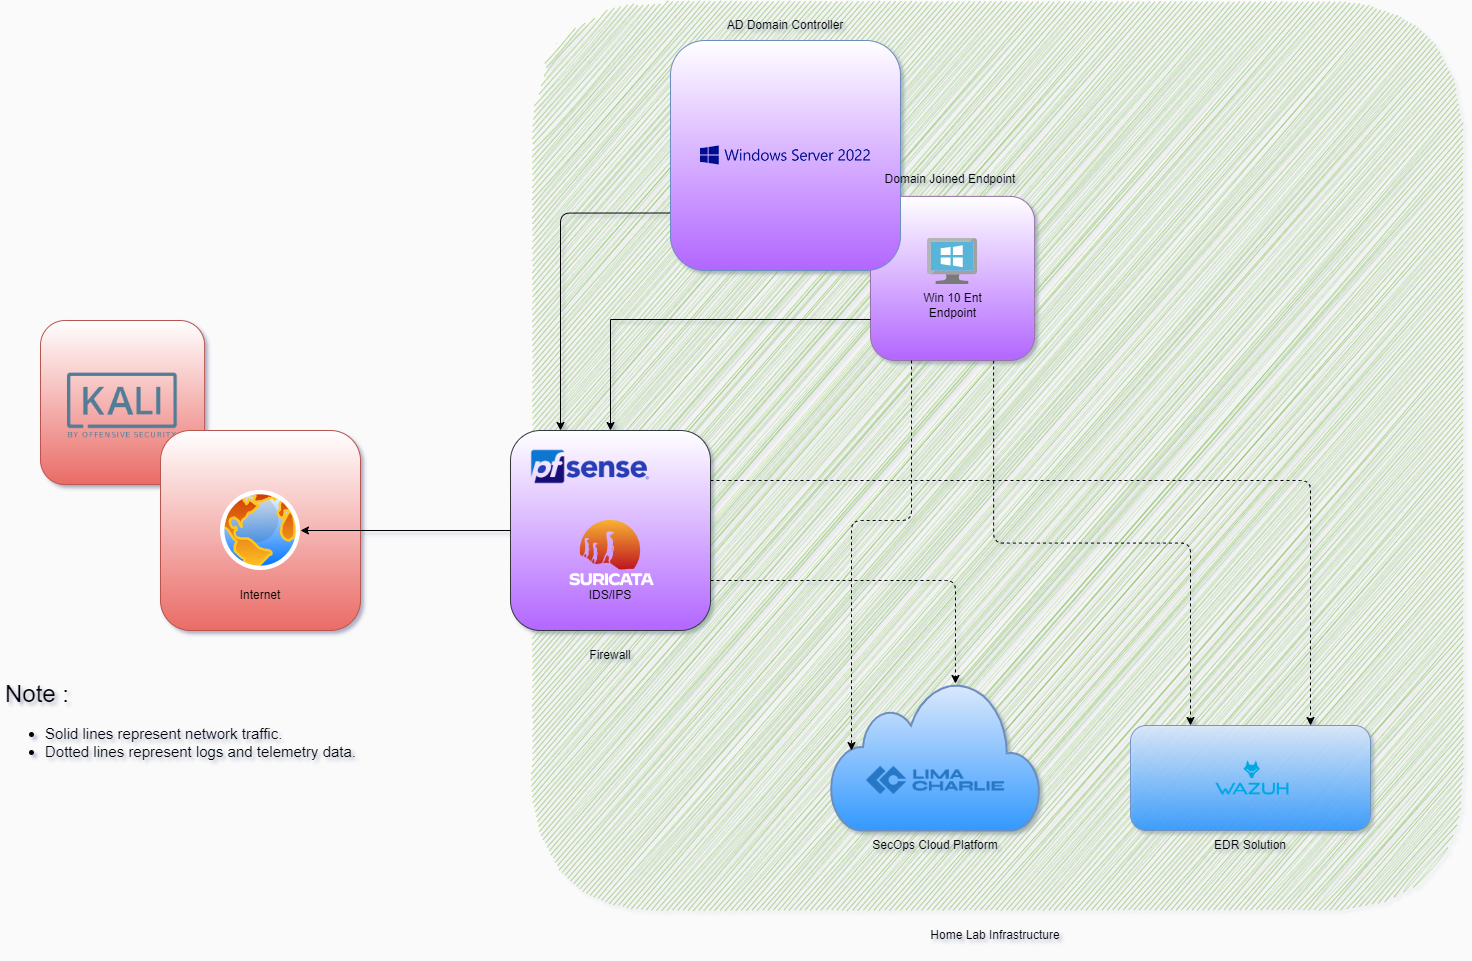
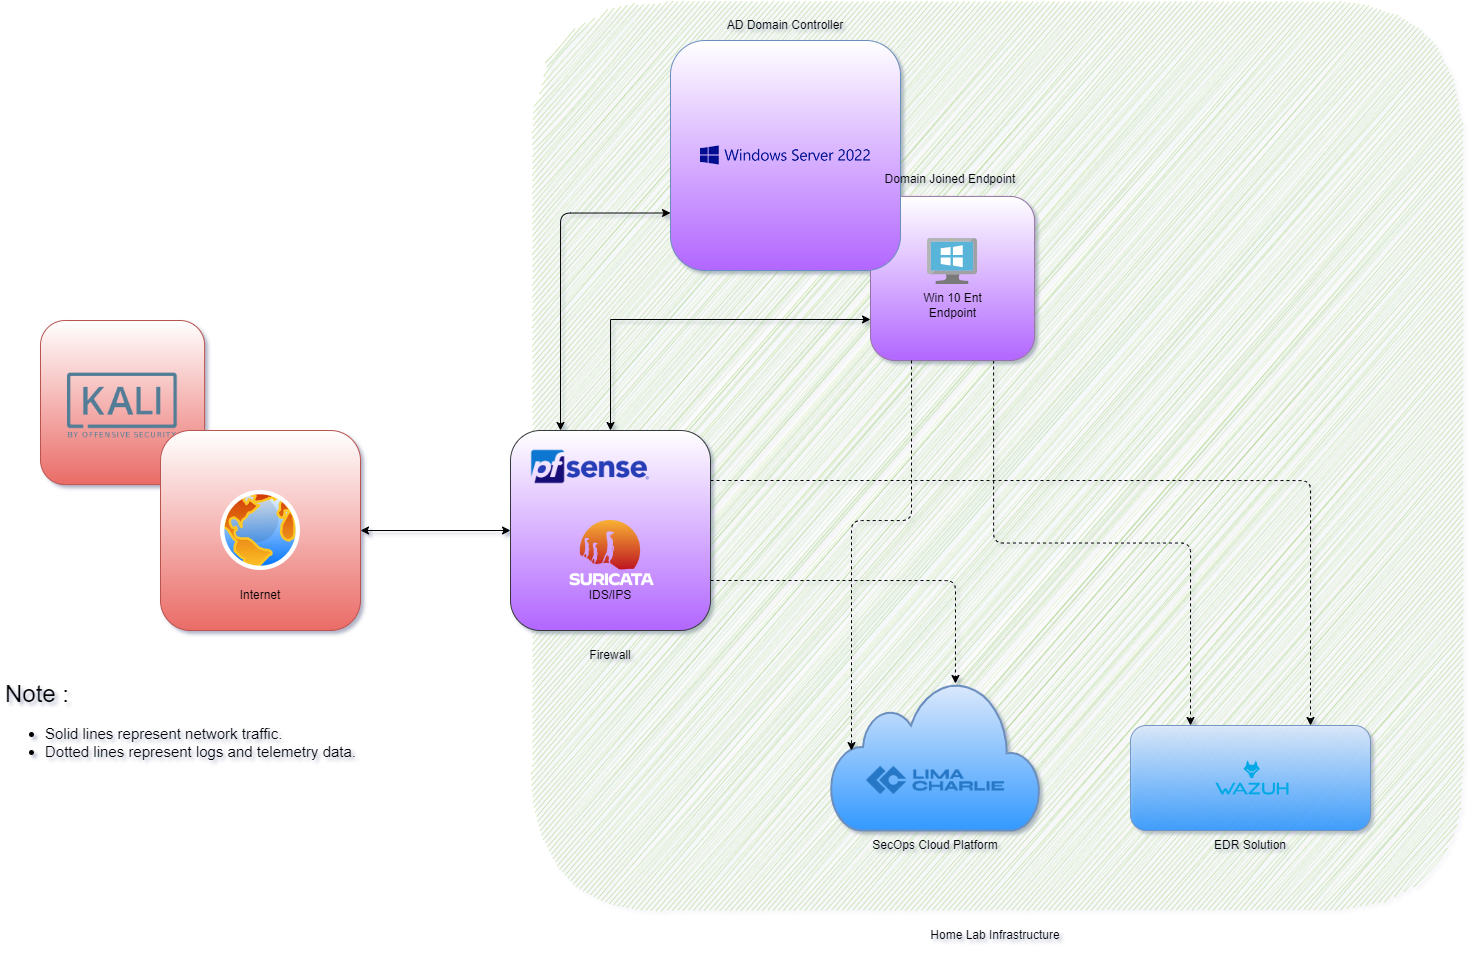
Short update on diagram and main readme

diff --git a/README.md b/README.md
@@ -101,7 +101,7 @@ The setup has a few building blocks and the below table has detailed description
 
 This is part where we really touch on our actual objective of the lab. With all the monitoring and defensive tools and our environment fully set up, now its time to start practicing. 
 
-In this part of the lab we use the Kali Linux to try out various redteaming tools against our defensive arsenal to observe how they perform.
+In this part of the lab we use the Kali Linux to try out various redteaming tools against our defensive arsenal to observe how they perform and also learn a few things about the patterns these sneaky tools leave for us defenders to catch them in the dark. 
 
 |No|CaseID |Description|
 |:-----:|:-----:|:----:|
